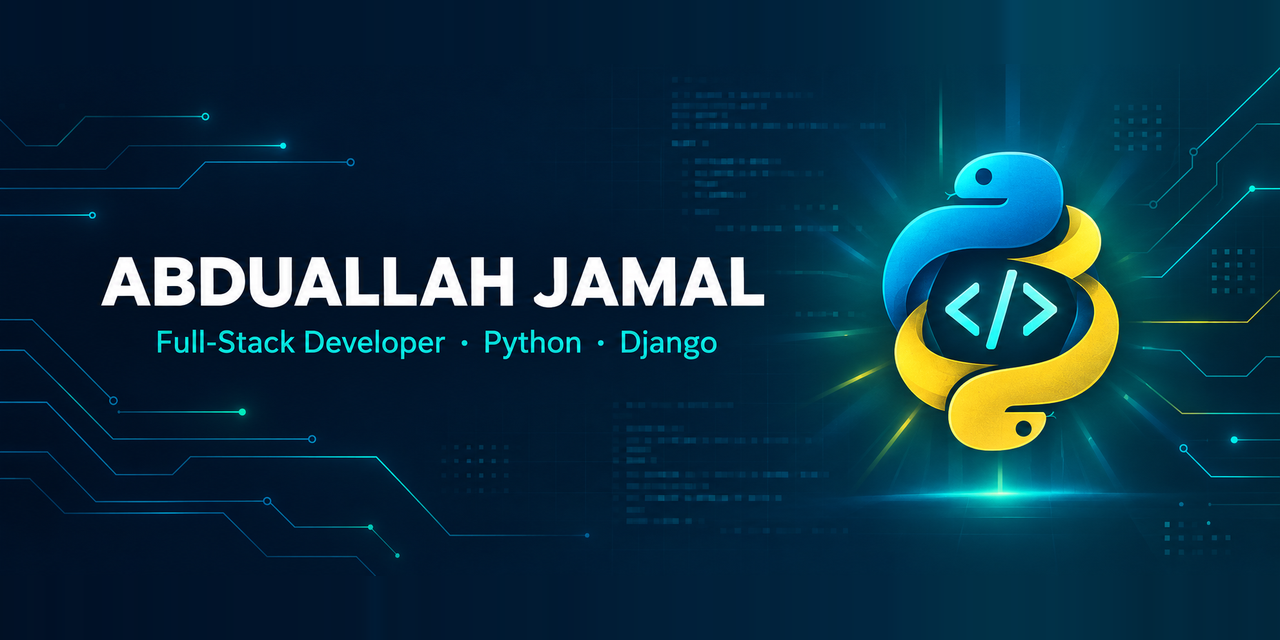
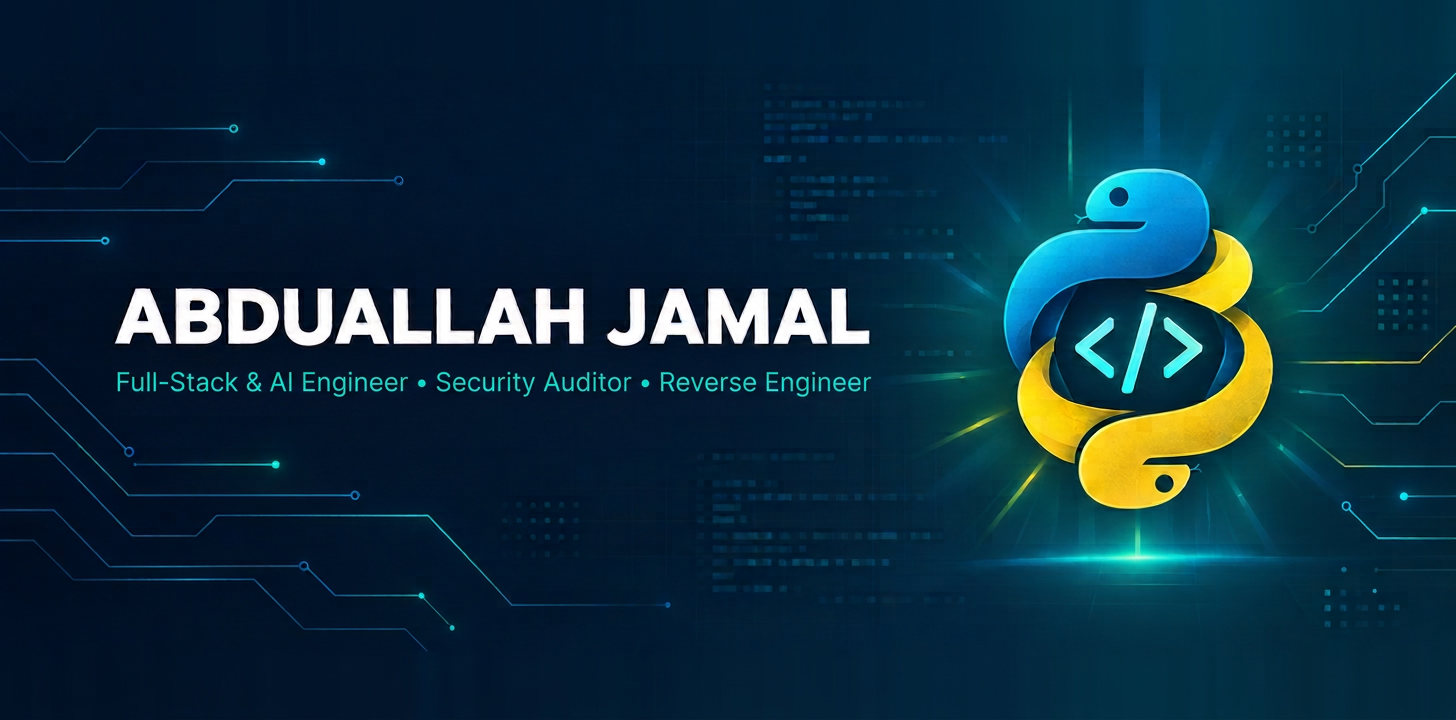
feat(profile): add AI engineering, security auditing, and reverse engineering domains

diff --git a/README.md b/README.md
@@ -1,12 +1,14 @@
 <!-- ============ BANNER ============ -->
 <p align="center">
-  <img src="assets/banner.png" alt="Abduallah Jamal — Full-Stack Developer" width="100%" />
+  <img src="assets/banner.png" alt="Abduallah Jamal — Full-Stack & AI Engineer · Security Auditor · Reverse Engineer" width="100%" />
 </p>
 
 <h1 align="center">Hi, I'm Abduallah Jamal 👋</h1>
 
 <p align="center">
-  <b>Full-Stack Developer</b> · Python · Django · Building clean, practical web apps & developer tools
+  <b>Full-Stack &amp; AI Engineer</b> · <b>Security Auditor</b> · <b>Reverse Engineer</b>
+  <br />
+  Python &amp; Django · Agentic Systems &amp; RAG · Source Code Auditing &amp; Binary Analysis
   <br />
   📍 Cairo, Egypt
 </p>
@@ -16,7 +18,7 @@
     <img src="https://img.shields.io/github/followers/abduallahJamal?label=Followers&style=for-the-badge&color=0ea5a4&labelColor=0b1220" alt="Followers" />
   </a>
   <img src="https://komarev.com/ghpvc/?username=abduallahJamal&style=for-the-badge&color=0ea5a4&labelColor=0b1220&label=Profile+Views" alt="Profile views" />
-  <img src="https://img.shields.io/badge/Open%20to-Collaboration-0ea5a4?style=for-the-badge&labelColor=0b1220" alt="Open to collaboration" />
+  <img src="https://img.shields.io/badge/Open_to-Engineering_%26_Security_Audits-0ea5a4?style=for-the-badge&labelColor=0b1220" alt="Open to Engineering and Security Audits" />
 </p>
 
 ---
@@ -26,8 +28,8 @@
 ## نبذة سريعة 🇪🇬
 
 <p dir="rtl" align="right">
-مطوّر <b>Full-Stack</b> من القاهرة، بأركّز على بناء تطبيقات ويب عملية وأدوات مطوّرين بـ <b>Python / Django</b> في الخلفية، وواجهات نظيفة وسريعة في الأمام.<br />
-بحب الكود البسيط اللي بيتقرأ، والمشاريع اللي بتحل مشكلة حقيقية — والأهم إنها تخلّص صح.
+مهندس <b>Full-Stack &amp; AI</b> بـ <b>Python / Django</b>، ومراجع أمني (<b>Security Auditor</b>) بخبرة عملية في <b>الهندسة العكسية (Reverse Engineering)</b>.<br />
+أبني تطبيقات ويب وأنظمة ذكاء اصطناعي ووكلاء (AI Agents &amp; RAG) بمعمارية نظيفة ومؤمّنة من الجذور، وأراجع الأنظمة والكود المصدري والثنائيات لاكتشاف الثغرات قبل وصولها للإنتاج — لأن فهم كيف تُكسَر الأنظمة هو أضمن طريق لبنائها صح.
 </p>
 
 </div>
@@ -37,53 +39,104 @@
 ## 🧭 About Me
 
 ```python
-class Developer:
+class Engineer:
     def __init__(self):
         self.name       = "Abduallah Jamal"
-        self.role       = "Full-Stack Developer"
+        self.roles      = [
+            "Full-Stack & AI Engineer",
+            "Security Auditor (AppSec & Code Review)",
+            "Reverse Engineer",
+        ]
         self.location   = "Cairo, Egypt"
-        self.main_stack = ["Python", "Django", "PostgreSQL", "JavaScript"]
-        self.focus      = ["Clean architecture", "REST APIs", "Developer & AI Tooling"]
-        self.learning   = ["Docker", "CI/CD", "Cloud deployment"]
-        self.open_to    = ["Collaboration", "Freelance", "Open Source"]
+        self.backend    = ["Python", "Django", "FastAPI", "PostgreSQL", "Redis"]
+        self.ai_stack   = ["LLM APIs", "RAG (pgvector)", "AI Agents & MCP", "Structured Outputs"]
+        self.security   = ["Source Code Auditing", "Reverse Engineering", "Binary & Protocol Analysis", "OWASP / AppSec"]
+        self.open_to    = ["Engineering Roles", "Security Audits", "Open Source"]
 
-    def current_goal(self):
-        return "Ship software that is simple, tested, and useful."
+    def philosophy(self):
+        return "Understand how systems break to build software that is simple, intelligent, and secure."
 ```
+
+---
+
+## 🛡 Core Domains
+
+<table>
+  <tr>
+    <td width="33%" valign="top">
+      <h3>⚡ Full-Stack &amp; Backend</h3>
+      <p>Designing clean, maintainable web applications and high-throughput REST APIs with <b>Python</b>, <b>Django</b>, <b>FastAPI</b>, <b>PostgreSQL</b>, and background task pipelines with <b>Celery &amp; Redis</b>.</p>
+    </td>
+    <td width="33%" valign="top">
+      <h3>🤖 AI &amp; Agentic Systems</h3>
+      <p>Building production LLM workflows, <b>RAG</b> pipelines over <b>pgvector</b>, structured tool-use with <b>Pydantic</b>, and cross-platform <b>Agent Skills &amp; MCP</b> integrations.</p>
+    </td>
+    <td width="34%" valign="top">
+      <h3>🔐 Security &amp; Reverse Engineering</h3>
+      <p>Deep <b>source-code security auditing</b>, vulnerability discovery (<b>OWASP / AppSec</b>), static &amp; dynamic binary analysis, decompilation, and protocol inspection.</p>
+    </td>
+  </tr>
+</table>
 
 ---
 
 ## 🛠 Tech Stack
 
-**Languages**
+**Languages & Low-Level**
 
 <p>
   <img src="https://img.shields.io/badge/Python-3776AB?style=for-the-badge&logo=python&logoColor=white" alt="Python" />
+  <img src="https://img.shields.io/badge/C_%2F_C%2B%2B-00599C?style=for-the-badge&logo=cplusplus&logoColor=white" alt="C/C++" />
+  <img src="https://img.shields.io/badge/x86_%2F_ARM_ASM-0b1220?style=for-the-badge&logo=arm&logoColor=0ea5a4" alt="x86 / ARM Assembly" />
   <img src="https://img.shields.io/badge/JavaScript-F7DF1E?style=for-the-badge&logo=javascript&logoColor=black" alt="JavaScript" />
+  <img src="https://img.shields.io/badge/Bash-121011?style=for-the-badge&logo=gnubash&logoColor=white" alt="Bash" />
   <img src="https://img.shields.io/badge/HTML5-E34F26?style=for-the-badge&logo=html5&logoColor=white" alt="HTML5" />
   <img src="https://img.shields.io/badge/CSS3-1572B6?style=for-the-badge&logo=css3&logoColor=white" alt="CSS3" />
 </p>
 
-**Frameworks & Libraries**
+**Backend & Web Engineering**
 
 <p>
   <img src="https://img.shields.io/badge/Django-092E20?style=for-the-badge&logo=django&logoColor=white" alt="Django" />
   <img src="https://img.shields.io/badge/DRF-A30000?style=for-the-badge&logo=django&logoColor=white" alt="Django REST Framework" />
+  <img src="https://img.shields.io/badge/FastAPI-009688?style=for-the-badge&logo=fastapi&logoColor=white" alt="FastAPI" />
   <img src="https://img.shields.io/badge/Flask-000000?style=for-the-badge&logo=flask&logoColor=white" alt="Flask" />
   <img src="https://img.shields.io/badge/Bootstrap-7952B3?style=for-the-badge&logo=bootstrap&logoColor=white" alt="Bootstrap" />
 </p>
 
-**Databases & Tools**
+**AI & Agentic Engineering**
+
+<p>
+  <img src="https://img.shields.io/badge/OpenAI_%26_Claude_APIs-0b1220?style=for-the-badge&logo=openai&logoColor=0ea5a4" alt="OpenAI & Claude APIs" />
+  <img src="https://img.shields.io/badge/LangChain_%26_LangGraph-1C3C3C?style=for-the-badge&logo=langchain&logoColor=white" alt="LangChain & LangGraph" />
+  <img src="https://img.shields.io/badge/RAG_%26_pgvector-4169E1?style=for-the-badge&logo=postgresql&logoColor=white" alt="RAG & pgvector" />
+  <img src="https://img.shields.io/badge/AI_Agents_%26_MCP-0ea5a4?style=for-the-badge&labelColor=0b1220" alt="AI Agents & MCP" />
+  <img src="https://img.shields.io/badge/Pydantic-E92063?style=for-the-badge&logo=pydantic&logoColor=white" alt="Pydantic" />
+  <img src="https://img.shields.io/badge/Celery-37814A?style=for-the-badge&logo=celery&logoColor=white" alt="Celery" />
+</p>
+
+**Security Auditing & Reverse Engineering**
+
+<p>
+  <img src="https://img.shields.io/badge/Ghidra-B81D13?style=for-the-badge&logoColor=white" alt="Ghidra" />
+  <img src="https://img.shields.io/badge/IDA_Pro_%26_x64dbg-0b1220?style=for-the-badge&logoColor=0ea5a4" alt="IDA Pro & x64dbg" />
+  <img src="https://img.shields.io/badge/Frida_%26_Radare2-EF6C00?style=for-the-badge&logoColor=white" alt="Frida & Radare2" />
+  <img src="https://img.shields.io/badge/Burp_Suite-FF6633?style=for-the-badge&logo=burpsuite&logoColor=white" alt="Burp Suite" />
+  <img src="https://img.shields.io/badge/Wireshark-1679A7?style=for-the-badge&logo=wireshark&logoColor=white" alt="Wireshark" />
+  <img src="https://img.shields.io/badge/Semgrep_%26_SAST-17B890?style=for-the-badge&logo=semgrep&logoColor=white" alt="Semgrep & SAST" />
+  <img src="https://img.shields.io/badge/OWASP_AppSec-000000?style=for-the-badge&logo=owasp&logoColor=white" alt="OWASP AppSec" />
+</p>
+
+**Databases, Infrastructure & Tools**
 
 <p>
   <img src="https://img.shields.io/badge/PostgreSQL-4169E1?style=for-the-badge&logo=postgresql&logoColor=white" alt="PostgreSQL" />
   <img src="https://img.shields.io/badge/SQLite-003B57?style=for-the-badge&logo=sqlite&logoColor=white" alt="SQLite" />
   <img src="https://img.shields.io/badge/Redis-DC382D?style=for-the-badge&logo=redis&logoColor=white" alt="Redis" />
   <img src="https://img.shields.io/badge/Docker-2496ED?style=for-the-badge&logo=docker&logoColor=white" alt="Docker" />
+  <img src="https://img.shields.io/badge/Linux-FCC624?style=for-the-badge&logo=linux&logoColor=black" alt="Linux" />
   <img src="https://img.shields.io/badge/Git-F05032?style=for-the-badge&logo=git&logoColor=white" alt="Git" />
   <img src="https://img.shields.io/badge/GitHub_Actions-2088FF?style=for-the-badge&logo=githubactions&logoColor=white" alt="GitHub Actions" />
-  <img src="https://img.shields.io/badge/Linux-FCC624?style=for-the-badge&logo=linux&logoColor=black" alt="Linux" />
-  <img src="https://img.shields.io/badge/VS_Code-007ACC?style=for-the-badge&logo=visualstudiocode&logoColor=white" alt="VS Code" />
 </p>
 
 ---
@@ -95,7 +148,7 @@ class Developer:
     <td width="100%" valign="top">
       <h3>🗡 <a href="https://github.com/abduallahJamal/opencode-design-skills">opencode-design-skills</a></h3>
       <p>
-        Three professional Agent Skills (<code>sword</code>, <code>spdf</code>, <code>shtml</code>) for <b>OpenCode</b>, <b>Claude Code</b>, and <b>Codex CLI</b> that turn raw agent output into executive-grade Word (<code>.docx</code>), PDF, and HTML documents — with first-class <b>Arabic RTL</b> support and automated CI validation.
+        Three professional Agent Skills (<code>sword</code>, <code>spdf</code>, <code>shtml</code>) for <b>OpenCode</b>, <b>Claude Code</b>, and <b>Codex CLI</b> that turn raw agent output into executive-grade Word (<code>.docx</code>), PDF, and HTML documents — with first-class <b>Arabic RTL</b> support and automated Python CI validation.
       </p>
       <p>
         <img src="https://img.shields.io/badge/Python-3776AB?style=flat-square&logo=python&logoColor=white" alt="Python" />
@@ -118,7 +171,7 @@ class Developer:
       <p>
         <img src="https://img.shields.io/badge/Python-3776AB?style=flat-square&logo=python&logoColor=white" alt="Python" />
         <img src="https://img.shields.io/badge/Django-092E20?style=flat-square&logo=django&logoColor=white" alt="Django" />
-        <img src="https://img.shields.io/badge/PostgreSQL-4169E1?style=flat-square&logo=postgresql&logoColor=white" alt="PostgreSQL" />
+        <img src="https://img.shields.io/badge/Security-AppSec-0ea5a4?style=flat-square" alt="Security" />
       </p>
       <p><a href="https://github.com/abduallahJamal/REPO_NAME"><b>View Repository →</b></a></p>
     </td>
@@ -156,7 +209,7 @@ class Developer:
 </p>
 
 <p align="center" dir="rtl">
-  <i>«الكود النضيف مش رفاهية — هو أسرع طريق للتطوير.»</i>
+  <i>«فهم كيف تُكسَر الأنظمة هو أضمن طريق لبنائها صح — بكود نظيف، ذكي، ومؤمّن.»</i>
 </p>
 
 <p align="center">
